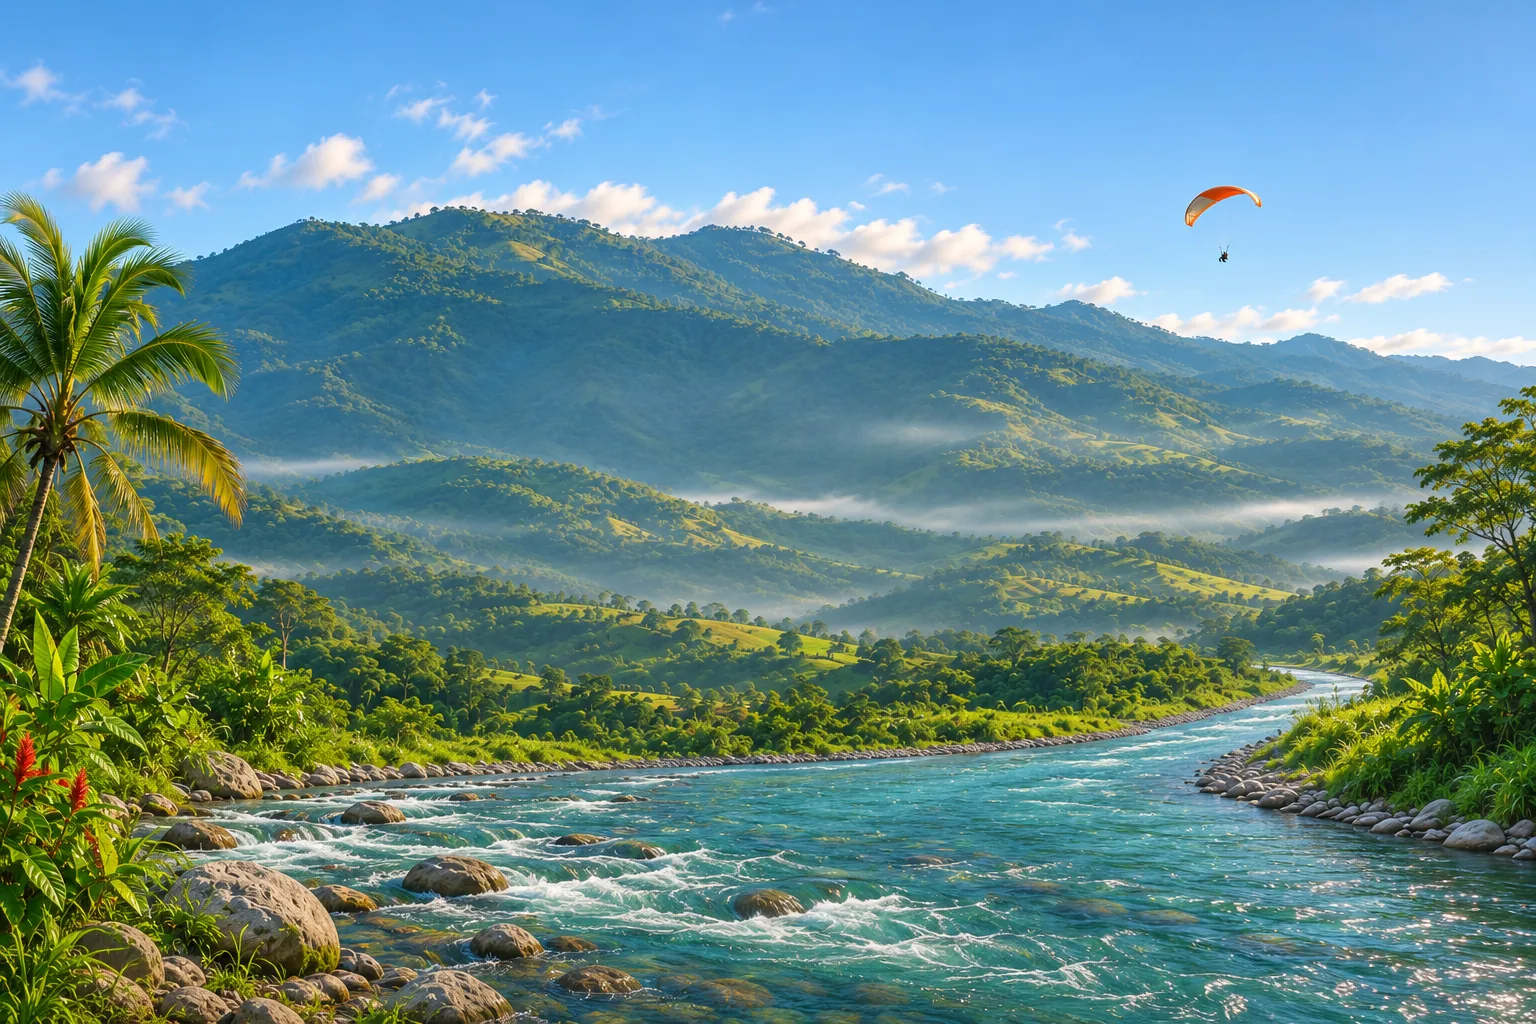
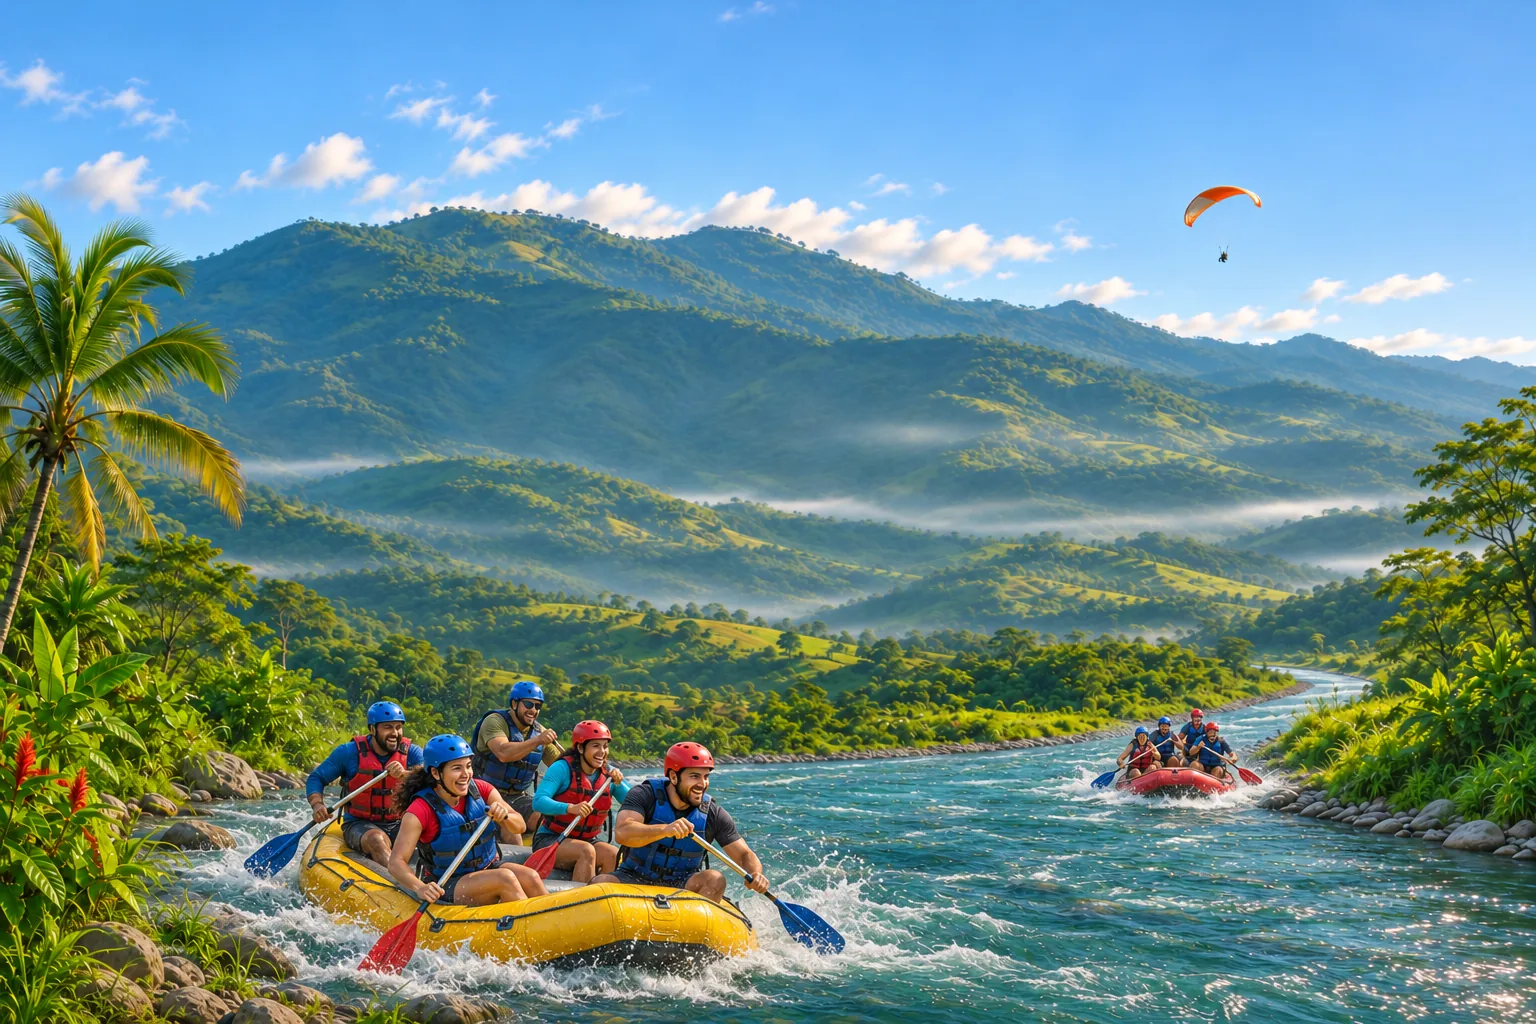
Keep the guide's paragliding and rafting visible across screen sizes

diff --git a/guide/style.css b/guide/style.css
@@ -12,8 +12,8 @@ h2{font-size:clamp(1.7rem,4vw,2.6rem)}
 h3{font-size:1.18rem}
 .frame{width:min(100% - 2rem,1060px);margin-inline:auto}
 .entry{position:relative;isolation:isolate;overflow:hidden;min-height:100svh;display:grid;place-items:center;padding:1rem;background:#18382c}
-.entry::before{content:'';position:absolute;inset:0;z-index:-1;background:linear-gradient(180deg,#102e2412,#102e2440),url('./jarabacoa-river-wide.webp') center/cover}
-@media(orientation:portrait){.entry::before{background-image:linear-gradient(180deg,#102e2412,#102e2440),url('./jarabacoa-welcome.webp?v=rio');background-position:center bottom}}
+.entry::before{content:'';position:absolute;inset:0;z-index:-1;background:linear-gradient(180deg,#102e2412,#102e2440),url('./jarabacoa-river-wide.webp?v=rafting') center/cover}
+@media(orientation:portrait){.entry::before{background-image:linear-gradient(180deg,#102e2412,#102e2440),url('./jarabacoa-welcome.webp?v=rafting');background-position:center bottom}}
 .entry-panel{width:min(100%,28rem);border-radius:24px;background:#faf8f0;text-align:center;padding:clamp(1.3rem,6vw,2.7rem);box-shadow:0 18px 60px #0e261ad0}
 .entry-logo{width:clamp(136px,37vw,184px);height:auto;border-radius:50%;object-fit:cover;margin-bottom:.5rem}
 .entry-panel .entry-name{font-weight:650;margin:0 0 .6rem;color:#284d3a}
@@ -64,3 +64,16 @@ h3{font-size:1.18rem}
 @media(max-width:380px){.brand img{width:35px;height:35px}.navigation{gap:.45rem;font-size:.82rem}.brand{font-size:.85rem}}
 
 .host-note{margin:0 0 1rem;color:#425b4d}
+
+/* Leave the sky and the downstream foreground clear around the language card. */
+.entry{padding:1rem 1rem clamp(4rem,23svh,14rem)}
+@media (orientation:portrait){
+  .entry{padding:clamp(3rem,17svh,10rem) 1rem clamp(5rem,22svh,13rem)}
+  .entry-panel{padding:clamp(1rem,4.5vw,1.7rem)}
+  .entry-logo{width:clamp(112px,33vw,164px)}
+  .languages{margin-top:1.1rem}
+}
+@media (orientation:landscape) and (max-height:640px){
+  .entry-logo{width:112px}
+  .entry-panel{padding:1.1rem}
+}

diff --git a/guia.html b/guia.html
@@ -6,7 +6,7 @@
   <meta name="theme-color" content="#18382c">
   <title>Guía Nature Paradise | Jarabacoa</title>
   <link rel="icon" href="./nature-paradise-logo.webp" type="image/webp">
-  <link rel="stylesheet" href="./guide/style.css?v=rio">
+  <link rel="stylesheet" href="./guide/style.css?v=rafting">
 </head>
 <body>
   <main id="entry" class="entry">
